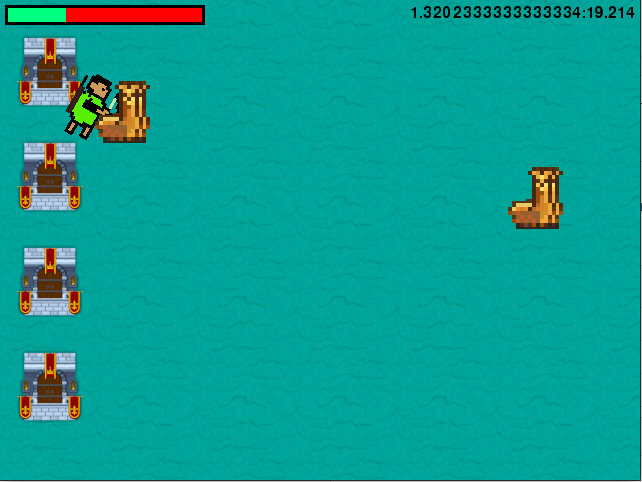
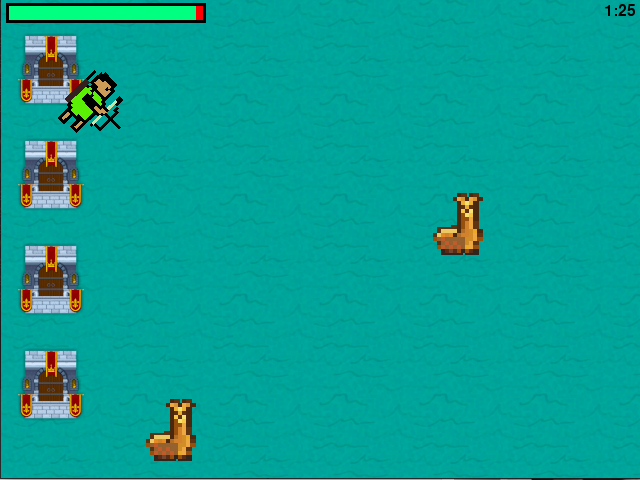
Minor fixes and slower enemies.

diff --git a/game.py b/game.py
@@ -15,7 +15,7 @@ arrows=[]
 badtimer=100
 badtimer1=0
 badguys=[[640,100]]
-healthvalue=194
+healthvalue=200
 
 #3 load images
 player=pygame.image.load("resources/images/dude.png")
@@ -57,8 +57,8 @@ while running:
     #6.2 position of arrows
     for bullet in arrows:
         index=0
-        velx=math.cos(bullet[0])*10
-        vely=math.sin(bullet[0])*10
+        velx=math.cos(bullet[0])*12
+        vely=math.sin(bullet[0])*12
         bullet[1]+=velx
         bullet[2]+=vely
         if bullet[1]<-64 or bullet[1]>640 or bullet[2]<-64 or bullet[2]>480:
@@ -85,7 +85,7 @@ while running:
         badrect.top=badguy[1]
         badrect.left=badguy[0]
         if badrect.left<64:
-            healthvalue -= random.randint(5,10)
+            healthvalue -= random.randint(1,5)
             badguys.pop(index)
         #6.3.2 - Check for collisions
         index1=0
@@ -116,7 +116,7 @@ while running:
 
     # 6.4 - Draw clock
     font = pygame.font.Font(None, 24)
-    survivedtext = font.render(str((90000-pygame.time.get_ticks())/60000)+":"+str((90000-pygame.time.get_ticks())/1000%60).zfill(2), True, (0,0,0))
+    survivedtext = font.render(str(int((90000-pygame.time.get_ticks())/60000))+":"+str(int((90000-pygame.time.get_ticks())/1000%60)).zfill(2), True, (0,0,0))
     textRect = survivedtext.get_rect()
     textRect.topright=[635,5]
     screen.blit(survivedtext, textRect)
